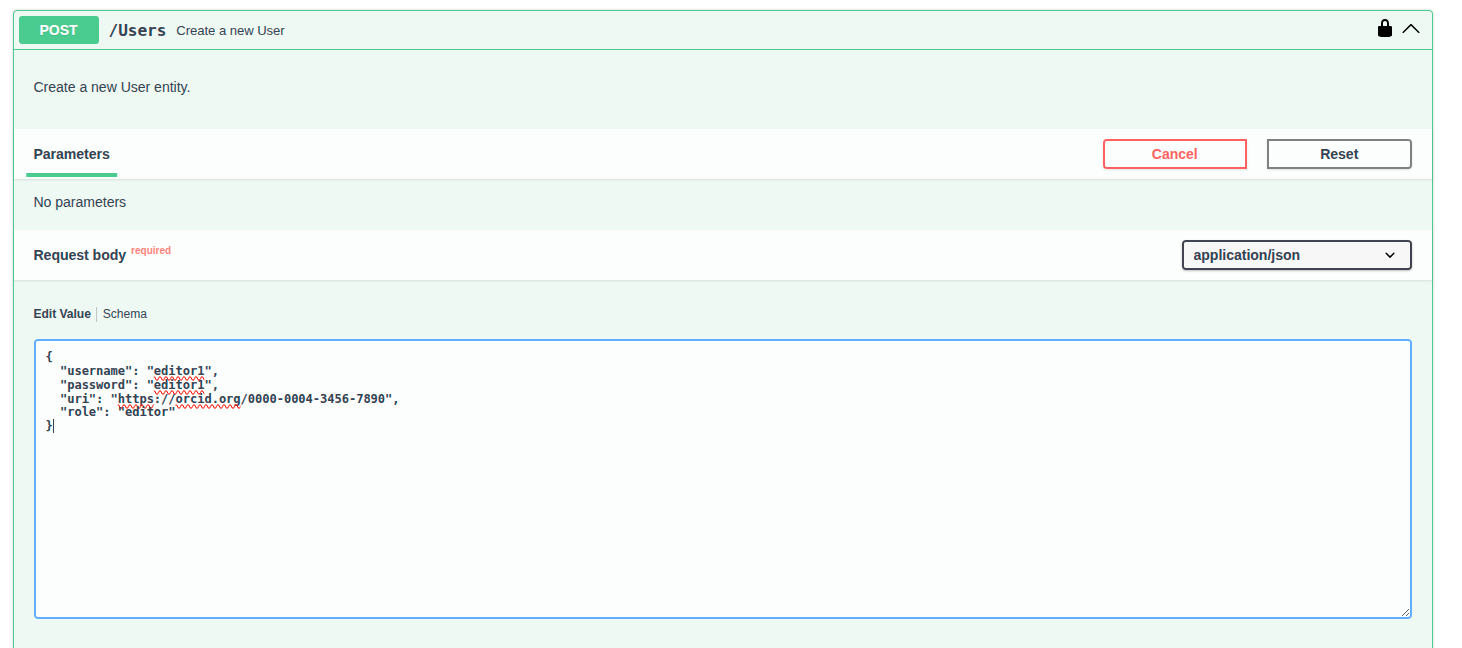
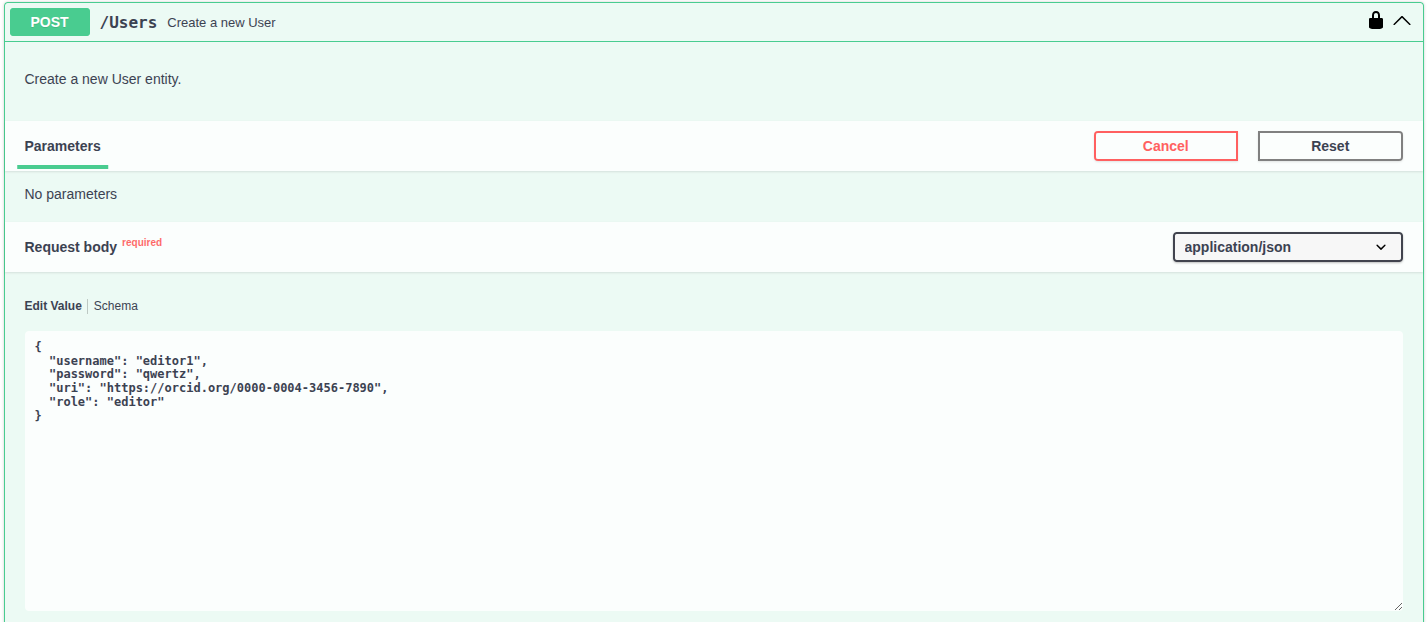
Update authorization documentation with new policies and images; fix endpoint references

diff --git a/web/docs/basic/authorization.md b/web/docs/basic/authorization.md
@@ -7,7 +7,7 @@ icon: lucide/key
 ## OpenAPI and Authorization
 OpenAPI is a specification for building APIs that includes support for defining security schemes and requirements. In our implementation, we have defined an OAuth2 security scheme in the OpenAPI documentation, which allows us to specify the [authentication](../concepts/authentication.md) mechanism for our API endpoints.
 
-Navigate to the interactive documentation at: `/docs` <https://localhost:8018/istsos4/v1.1/docs> or <https://istsos.org/v4/v1.1/docs> and check the top-right corner of the page.
+Navigate to the interactive documentation at: `/docs` <http://localhost:8018/v4/v1.1/docs> or <https://istsos.org/v4/v1.1/docs> and check the top-right corner of the page.
 
 You will see something like this:
 
@@ -63,7 +63,7 @@ After authenticating in the system, you will see it like:
 ### :lucide-play: Create a viewer and an editor
 Once you are logged in as an admin, you can create new users and assign them specific roles. 
 
-To create a new user, you can send a POST request to the `/users` endpoint with the following JSON body:
+To create a new user, you can send a POST request to the `/Users` endpoint with the following JSON body:
 
 ```json
   {
@@ -86,6 +86,30 @@ Using the swagger interface, you can create:
 
 ![Create User](../images/auth_create_editor.png)
 
+### :lucide-play: Create the viewer and editor policies
+
+Once the `editor1` and `viewer1` users have been created, you can assign them access policies.
+
+A policy defines which users can access a specific resource and what level of permissions they have on it.
+
+To create a new policy, send a POST request to the `/Policies` endpoint with the following JSON body.
+
+For the editor user:
+
+```json
+{
+  "users": [
+    "editor1"
+  ],
+  "name": "workshop",
+  "permissions": {
+    "type": "editor"
+  }
+}
+```
+
+![Create User](../images/auth_create_editor_policy.png)
+
 
 ### :lucide-play: Test the authorization
 Now that you have created new users with specific roles, you can test the authorization by logging in with those users and trying to perform actions that are restricted based on their roles.
@@ -106,4 +130,3 @@ Since you're logged in as a Viewer, you do not have the necessary privileges to 
   "message": "Insufficient privileges."
 }
 ```
-
